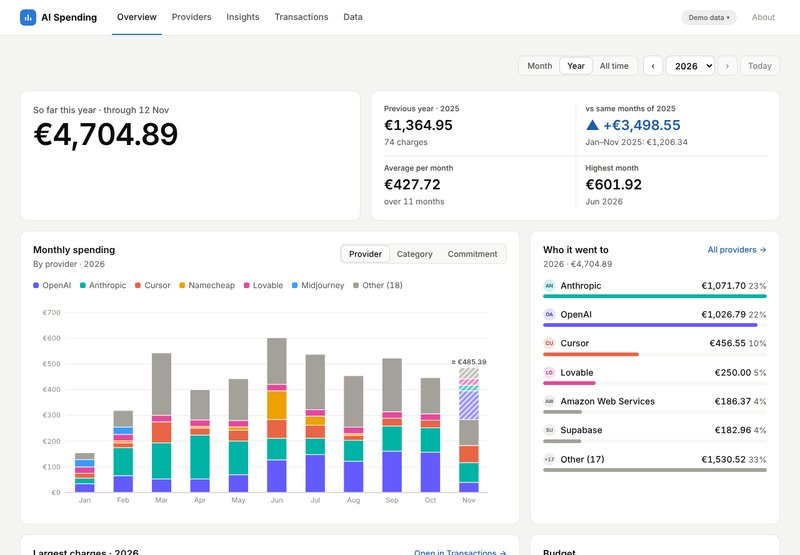
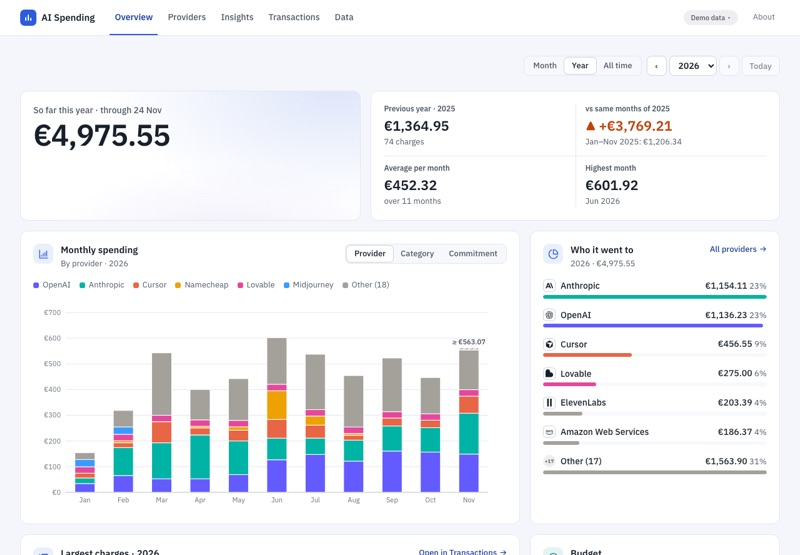
Docs: retake the README screenshots in the Statement design
Retakes all 20 screenshots with demo data, at the same sizes. Two captions
change to match: bulk tagging on Transactions, and the charge-type control.
Also fixes 'with spending in Last 12 months' on Providers.

diff --git a/src/pages/Providers.tsx b/src/pages/Providers.tsx
@@ -93,7 +93,7 @@ export function Providers() {
       subtitle={`${formatEUR(sumCents(periodRows))} in the last 12 months${span ? ` (${monthLabel(addMonths(span.lastMonth, -11))} to ${monthLabel(span.lastMonth)}, data through ${dateLabel(span.lastDate)})` : ''} · ${formatEUR(allTotal)} all time`}
     >
       <CardNote>
-        {activeInPeriod} with spending in {label}
+        {activeInPeriod} with spending in the last 12 months
       </CardNote>
       <div className="filters" style={{ marginBottom: 12 }}>
         <div style={{ flex: '1 1 200px', maxWidth: 260 }}>

diff --git a/README.md b/README.md
@@ -261,12 +261,12 @@ Versions follow Semantic Versioning. Changes are listed in [CHANGELOG.md](CHANGE
 |---|---|
 | ![Welcome](docs/screenshots/00-welcome.jpg) Welcome page | ![Year](docs/screenshots/02-overview-year.jpg) Overview, year view |
 | ![Providers](docs/screenshots/03-providers.jpg) Providers: trend and filters | ![Provider](docs/screenshots/04-provider-detail.jpg) Provider detail: chart, at a glance and charge types |
-| ![Transactions](docs/screenshots/05-transactions-filtered.jpg) Filtered transactions | ![Insights](docs/screenshots/06-insights.jpg) Insights: patterns |
+| ![Transactions](docs/screenshots/05-transactions-filtered.jpg) Filtered transactions, three ticked for bulk tagging | ![Insights](docs/screenshots/06-insights.jpg) Insights: patterns |
 | ![Comparisons](docs/screenshots/07-insights-comparisons.jpg) Insights: comparisons | ![Import review](docs/screenshots/08-import-review-errors.jpg) Import review with errors |
 | ![Data](docs/screenshots/09-data.jpg) Data management | ![Dark](docs/screenshots/13-overview-dark.jpg) Dark mode |
 | ![Mobile](docs/screenshots/10-mobile-overview.jpg) Mobile overview | ![Mobile forecast](docs/screenshots/11-mobile-forecast.jpg) Mobile: what is still due this month |
 | ![Mobile transactions](docs/screenshots/12-mobile-transactions.jpg) Mobile transactions | ![Past month](docs/screenshots/20-overview-past-month.jpg) A past month: total, no estimate, its bar selected |
-| ![Shifts and suggestions](docs/screenshots/16-insights-shifts-suggestions.jpg) Insights: price changes, stopped, overlap | ![Charge types](docs/screenshots/14-provider-charge-types.jpg) Charge types: read by default, settings and details in the open row |
+| ![Shifts and suggestions](docs/screenshots/16-insights-shifts-suggestions.jpg) Insights: price changes, stopped, overlap | ![Charge types](docs/screenshots/14-provider-charge-types.jpg) Charge types: the open row, with the app's guess outlined to confirm in one click |
 | ![Types](docs/screenshots/17-insights-types.jpg) Insights: subscription, usage and one-time | ![Budget](docs/screenshots/18-budget.jpg) Monthly budget against what is recorded plus what is still due |
 | ![Quarter export](docs/screenshots/19-quarter-export.jpg) Export a quarter | |
 
